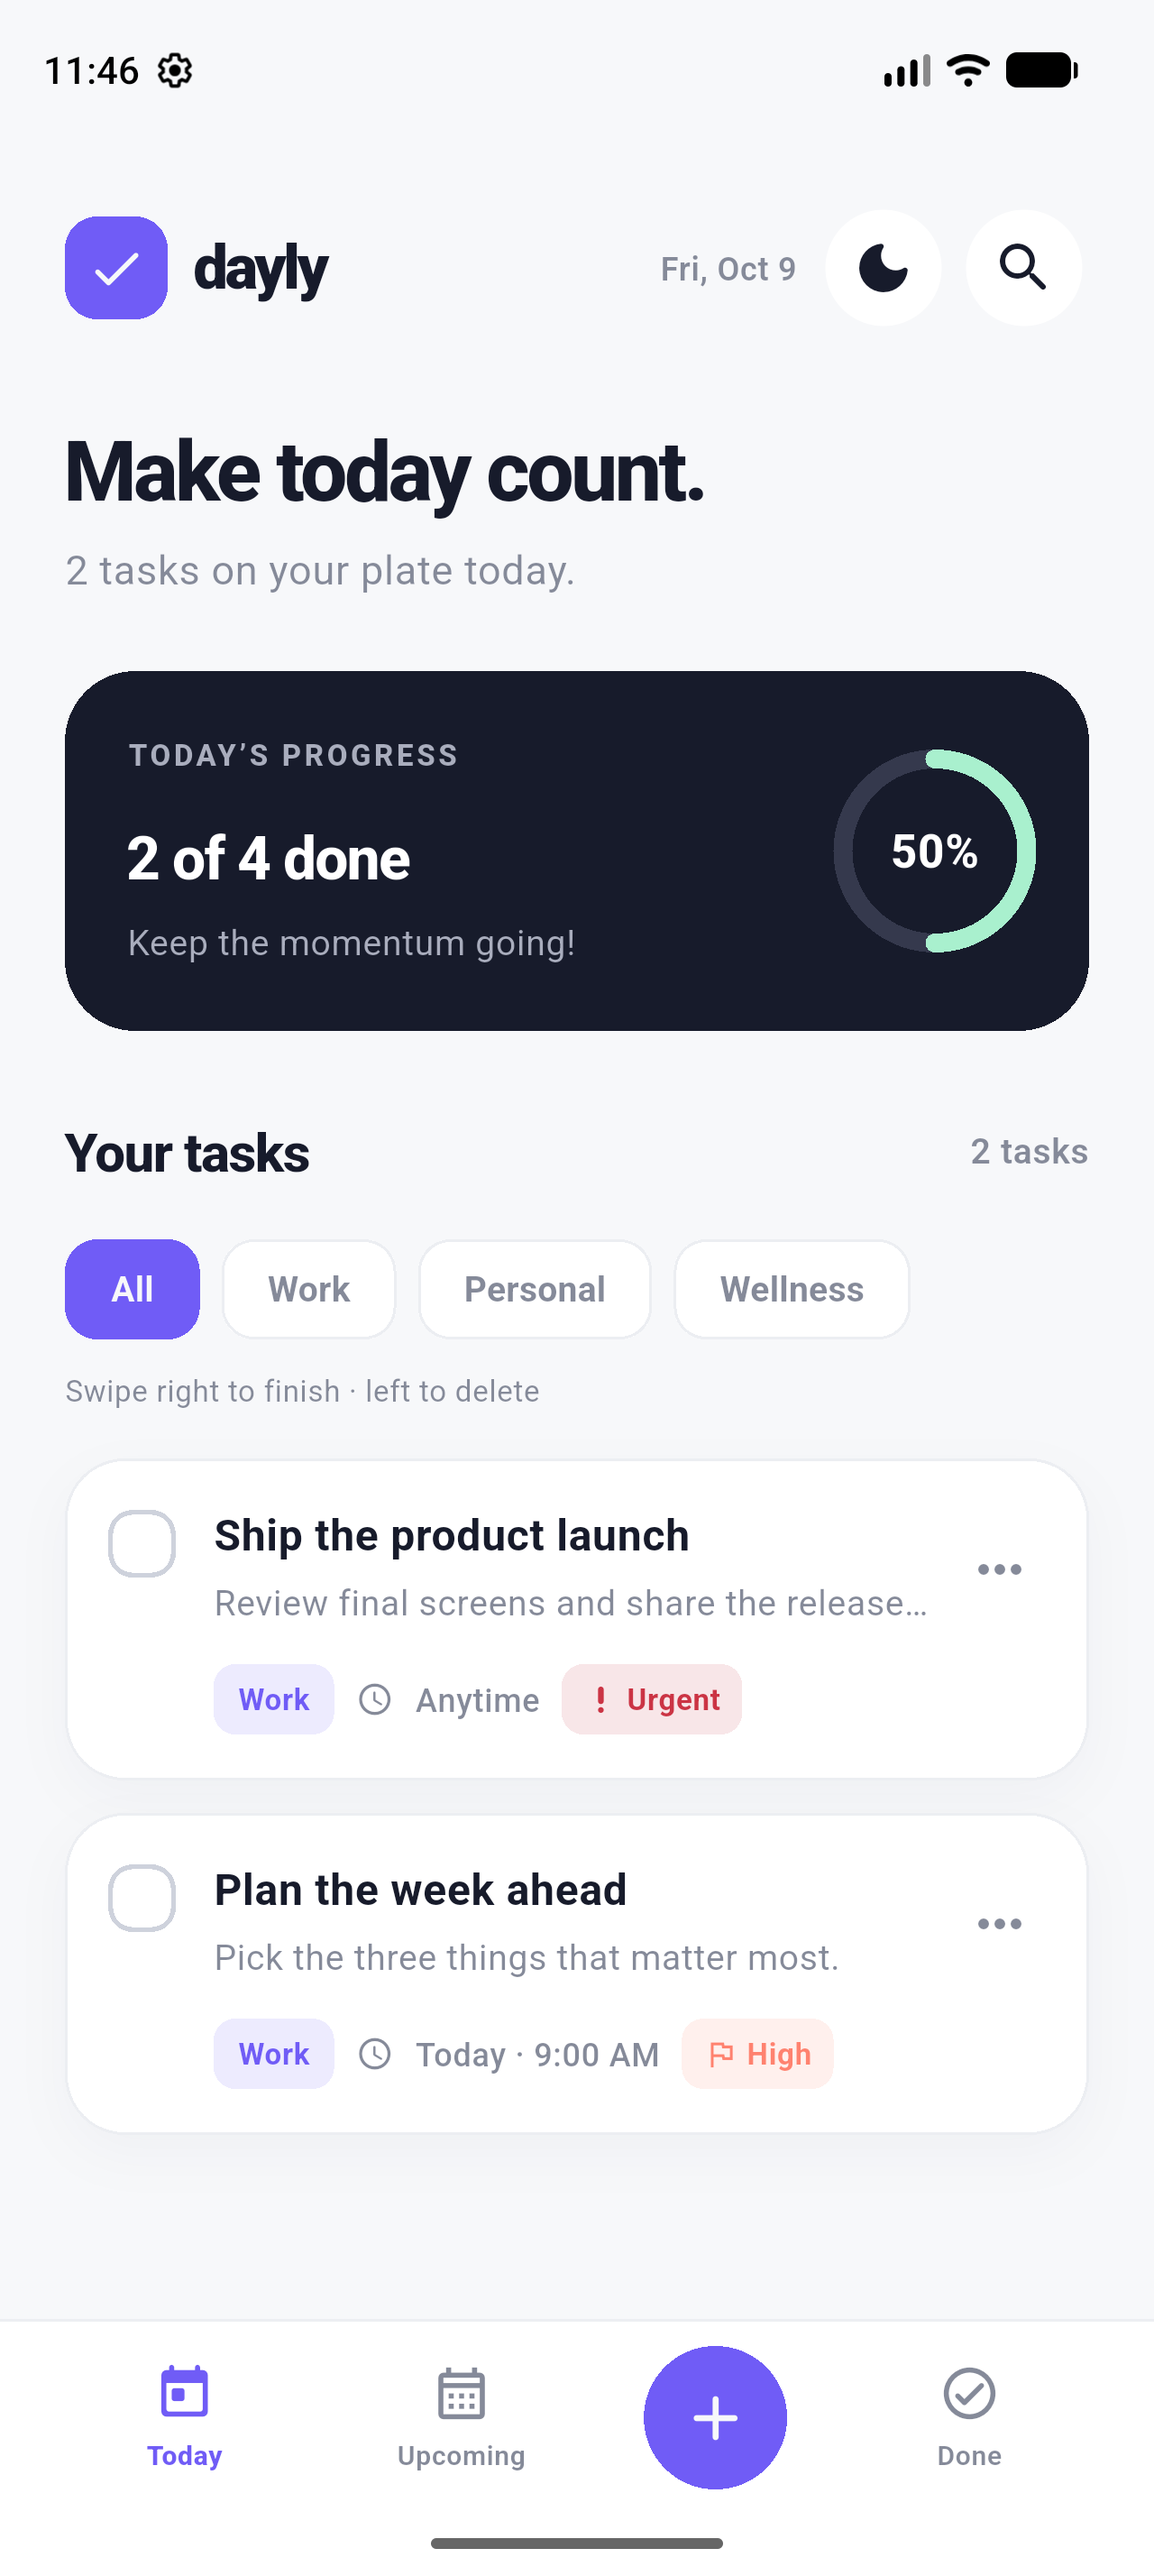
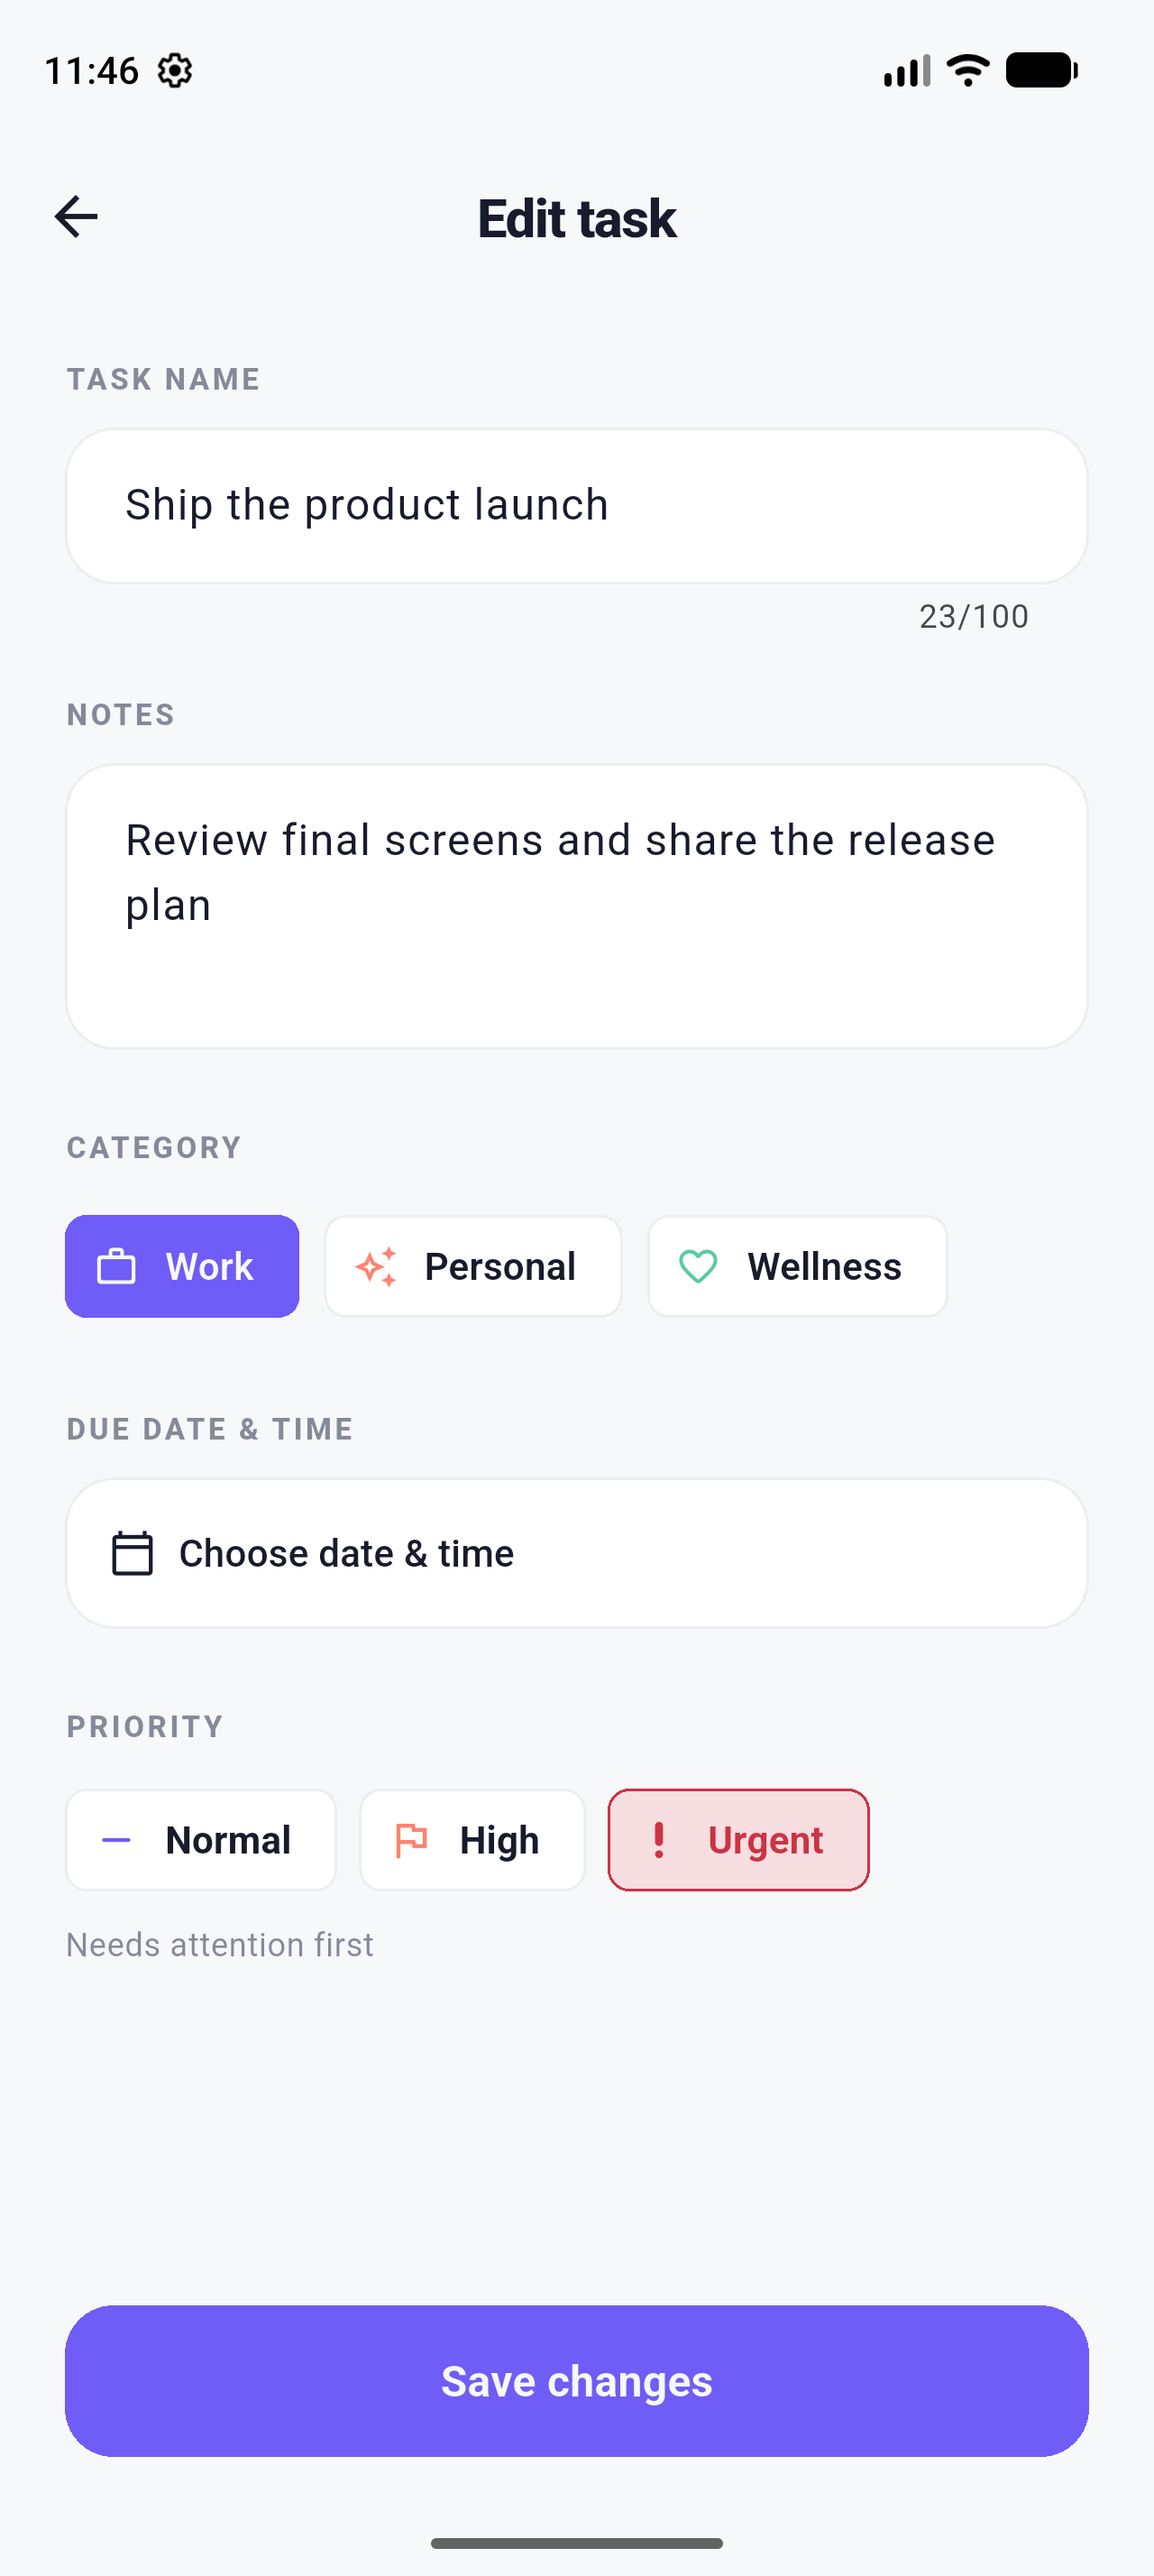
Expand README with complete app walkthrough

diff --git a/README.md b/README.md
@@ -16,15 +16,49 @@ A clean, responsive todo app for Android and iPhone, built with Flutter.
 
 The app opens with a few editable example tasks on first launch. After that, it restores your saved tasks, including an empty list if you delete them all.
 
-## Screenshots
+## See it in action
 
-| Today and priorities | Create a task | Dark mode and progress |
+These screens were captured from the Android app with example tasks. The same Flutter interface is designed for iPhone as well.
+
+### Focus on today
+
+Urgent tasks appear before High and Normal tasks. The progress ring updates as you complete them, and the theme button switches between light and dark mode.
+
+| Light mode | Dark mode and live progress |
+|:---:|:---:|
+| <img src="docs/screenshots/today-light.png" alt="Light Today view with Urgent and High task badges" width="370"> | <img src="docs/screenshots/today-dark.png" alt="Dark Today view with one of four tasks complete" width="370"> |
+
+### Plan and prioritize
+
+Tap **+** to add a task. Give it a title, optional notes, a category, a due date and time, and a Normal, High, or Urgent priority. For example, *Ship the product launch* is Urgent; *Prepare sprint demo* is High and due tomorrow morning. The **Upcoming** view keeps future work separate from Today.
+
+| Urgent task | Scheduled task | Upcoming view |
 |:---:|:---:|:---:|
-| <img src="docs/screenshots/today-light.png" alt="Today view with urgent and high priority tasks" width="260"> | <img src="docs/screenshots/task-editor.png" alt="Task editor with category and urgent priority selected" width="260"> | <img src="docs/screenshots/today-dark.png" alt="Dark mode Today view showing 25 percent progress" width="260"> |
+| <img src="docs/screenshots/task-editor.png" alt="Creating an Urgent Work task with notes" width="245"> | <img src="docs/screenshots/scheduled-editor.png" alt="Scheduling a High priority Work task for tomorrow" width="245"> | <img src="docs/screenshots/upcoming.png" alt="Upcoming view showing two tasks due tomorrow" width="245"> |
 
-The layout also adapts when the phone rotates:
+### Find and manage tasks
 
-<img src="docs/screenshots/landscape.png" alt="Landscape dashboard with side navigation and task list" width="860">
+Use **Search** to match task titles or notes; searching for *plan* finds both the launch task's notes and the weekly plan. Tap a category chip to narrow the list. Open **•••** to edit a task or choose Delete.
+
+| Search titles and notes | Filter by category | Task actions | Edit a task |
+|:---:|:---:|:---:|:---:|
+| <img src="docs/screenshots/search.png" alt="Searching for plan returns two matching tasks" width="220"> | <img src="docs/screenshots/category-filter.png" alt="Wellness filter showing an evening walk" width="220"> | <img src="docs/screenshots/task-actions.png" alt="Task menu with Edit and Delete actions" width="220"> | <img src="docs/screenshots/edit-task.png" alt="Editing a saved task with its details restored" width="220"> |
+
+### Finish, restore, or undo
+
+Tap a checkbox or swipe right to complete a task. Swipe left to delete it. The **Undo** action reverses a swipe, and the **Done** view lets you restore completed tasks.
+
+<img src="docs/screenshots/completed.png" alt="Completed tasks with an Undo action after a swipe" width="370">
+
+### Rotate freely
+
+Portrait uses bottom navigation. In landscape, a side bar appears and the dashboard and task list sit side by side. Both orientations work in light and dark mode.
+
+| Landscape light | Landscape dark |
+|:---:|:---:|
+| <img src="docs/screenshots/landscape-light.png" alt="Light landscape dashboard with side navigation and 50 percent progress" width="430"> | <img src="docs/screenshots/landscape.png" alt="Dark landscape dashboard with side navigation and task list" width="430"> |
+
+Tasks and the selected theme are saved locally and restored when the app reopens.
 
 ## Project structure
 
